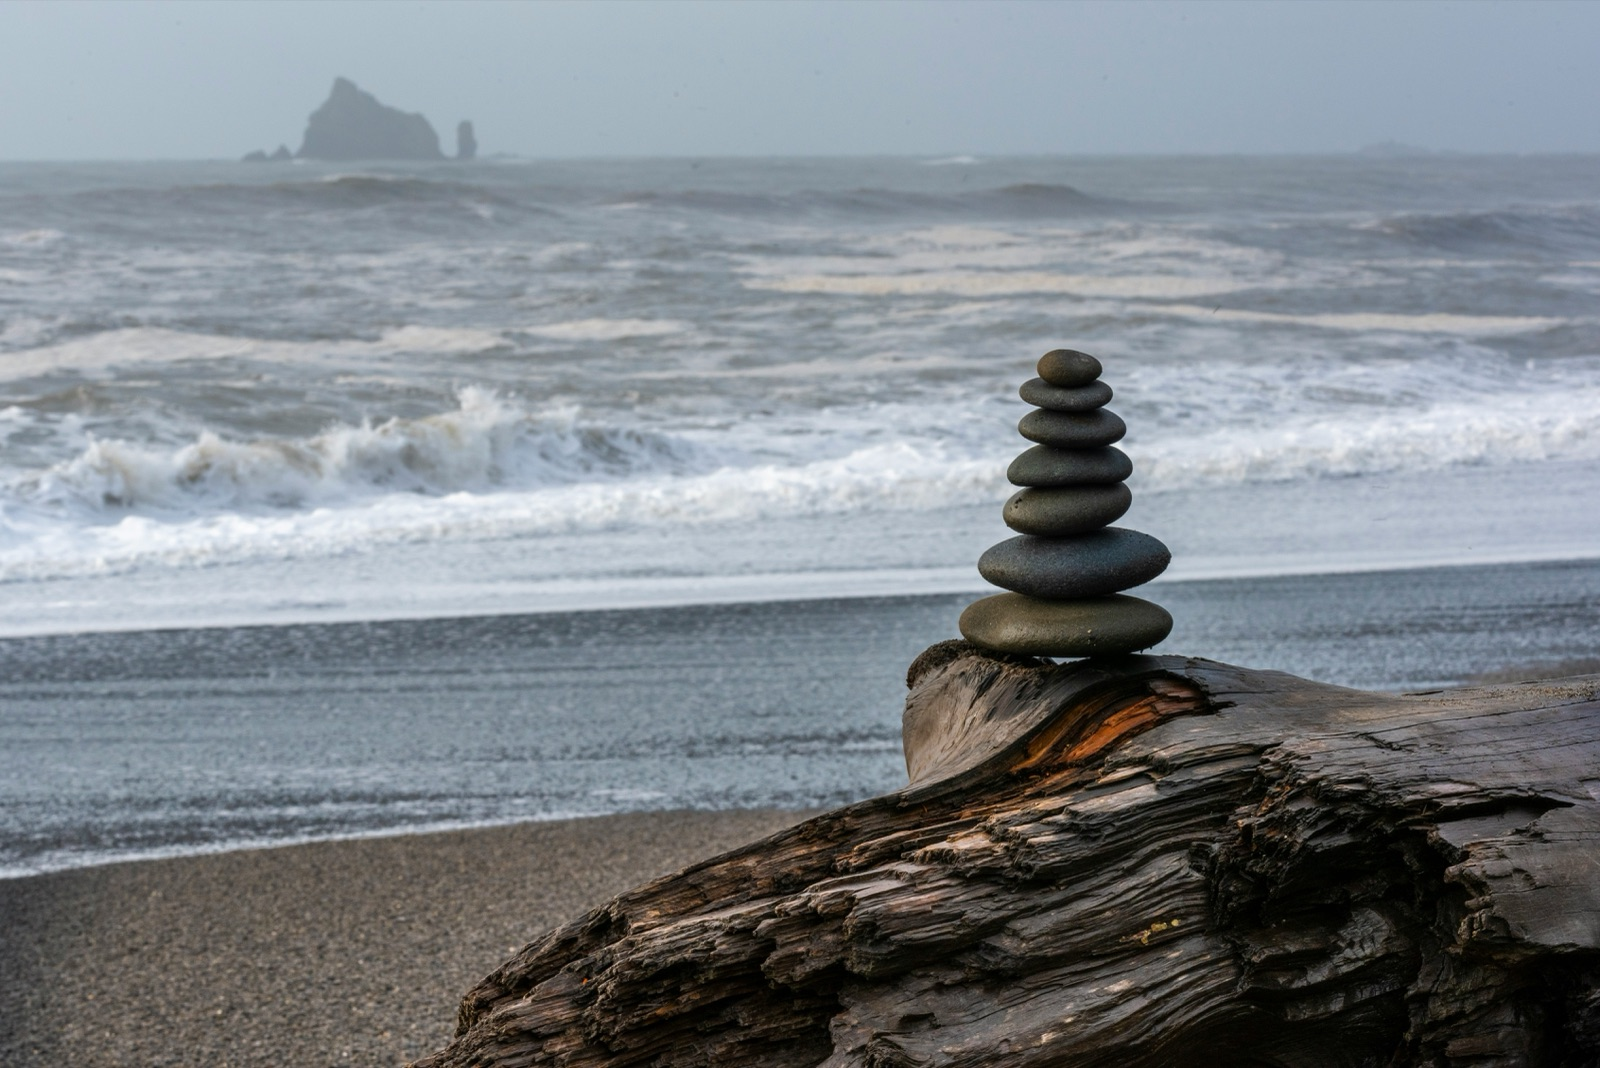
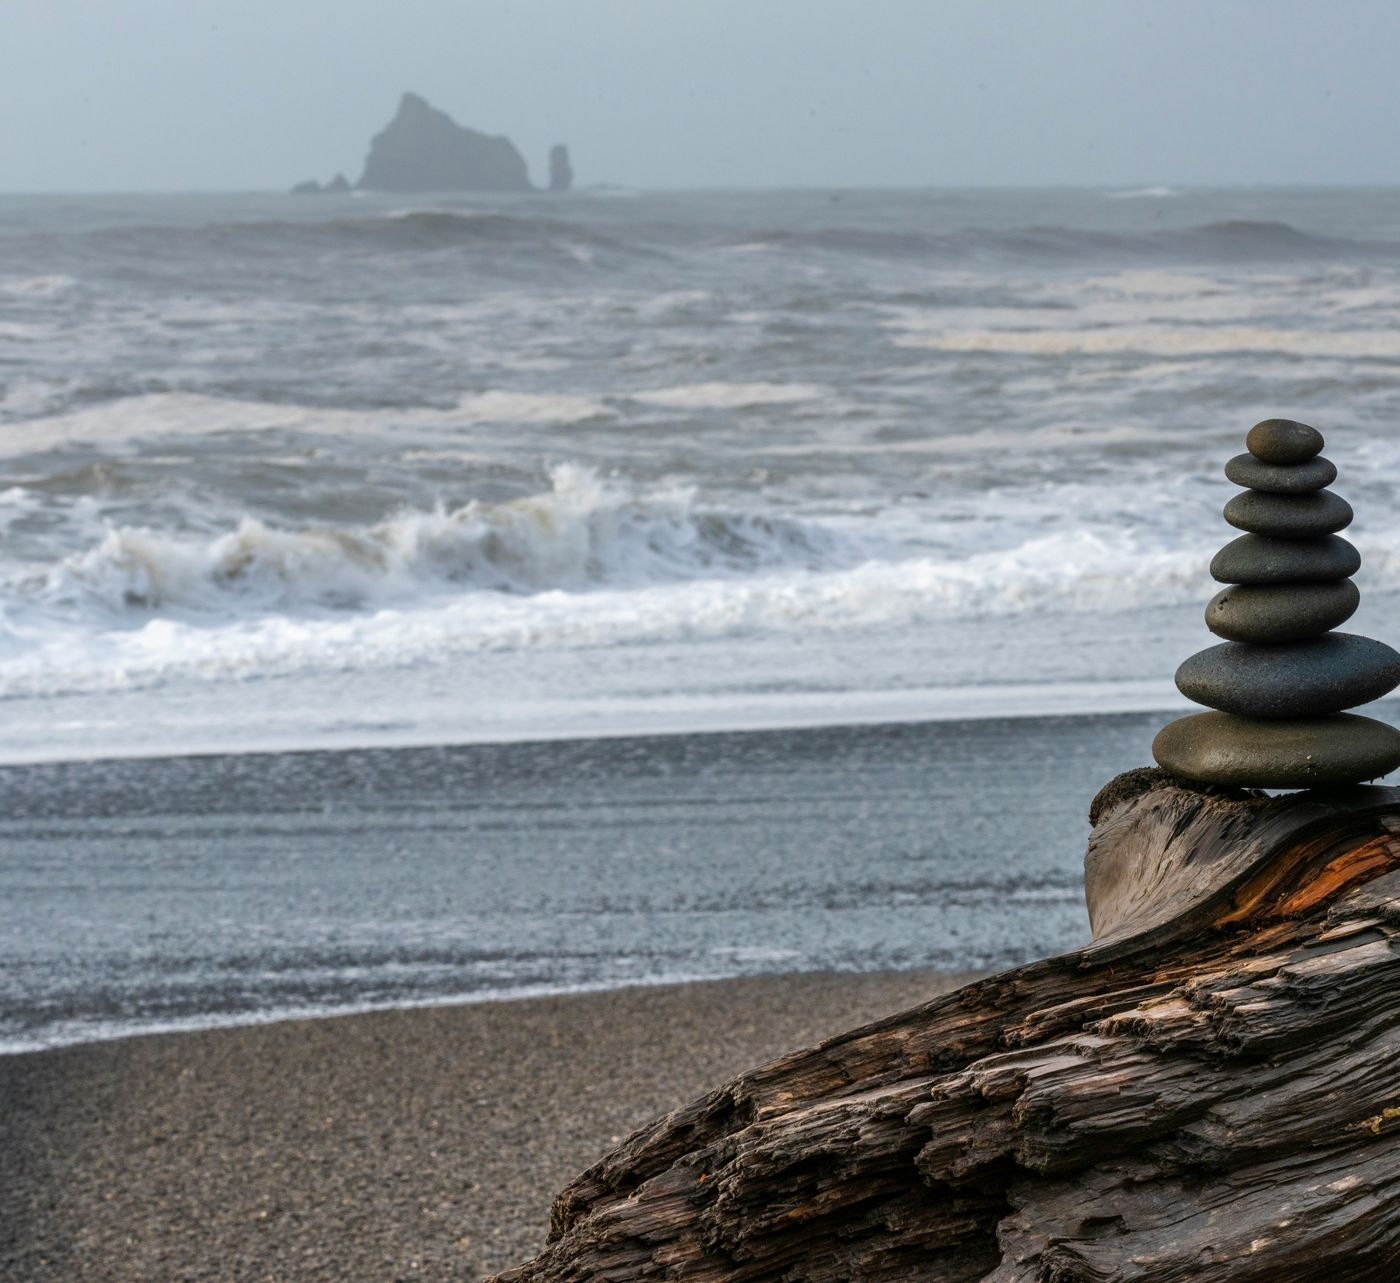
ux(custom-resume): cairn peeks right of column 3, OOB in forest green
- Re-cropped the jendi-coursey background so the cairn sits at ~92% of
  the image width. Switched backgroundSize from cover to '100% auto' so
  the image scales by viewport width, not by total page height (cover
  was over-scaling the image vertically and pushing the cairn off the
  right edge entirely on long-scrolling pages).
- Outside-the-Box tier now uses a forest green (#6BA66A) instead of
  sharing the gold palette with the top three — easier to tell tiers
  apart at a glance.

diff --git a/src/components/custom-resume/v2/customResumeV2Shared.tsx b/src/components/custom-resume/v2/customResumeV2Shared.tsx
@@ -19,8 +19,11 @@ export const APPROACH_VIS_URL = '/dashboard/sections/jendi-coursey-bg.jpg';
 const OVERLAY =
   'linear-gradient(180deg, rgba(33,63,79,0.55) 0%, rgba(18,46,59,0.78) 60%, rgba(18,46,59,0.92) 100%)';
 
-// Full-bleed background wrapper for the Custom Résumé pages. Same shape as
-// dashboardV2Shared.LakeBackground but uses approach_vis.jpg.
+// Full-bleed background wrapper for the Custom Résumé pages. The image is
+// cropped so the cairn sits at ~92% horizontally; with backgroundSize
+// '100% auto' the image fills the viewport width and the cairn lands just
+// past where column 3 of the picker ends. backgroundRepeat is none so the
+// bottom of taller pages just shows the canvas-deep gradient.
 export const ApproachBackground: React.FC<{ children: React.ReactNode }> = ({ children }) => (
   <div
     style={{
@@ -28,8 +31,9 @@ export const ApproachBackground: React.FC<{ children: React.ReactNode }> = ({ ch
       minHeight: '100vh',
       background: PALETTE.canvasDeep,
       backgroundImage: `${OVERLAY}, url(${APPROACH_VIS_URL})`,
-      backgroundSize: 'cover',
+      backgroundSize: '100% auto',
       backgroundPosition: 'center top',
+      backgroundRepeat: 'no-repeat',
       backgroundAttachment: 'scroll',
     }}
   >

diff --git a/src/components/custom-resume/v2/CustomResumeBuilder.tsx b/src/components/custom-resume/v2/CustomResumeBuilder.tsx
@@ -39,12 +39,16 @@ const CAREER_SECTION_TYPES = new Set([
 
 const MAX_SELECT = 3;
 
+// Forest green for "Outside the Box" — distinct from the top-three gold,
+// the runner-up teal, and the dream-job blue so each tier reads at a glance.
+const FOREST_GREEN = '#6BA66A';
+
 const TIER_FOR_TYPE: Record<string, { label: string; color: string; icon: 'num' | 'award' | 'lightbulb'; num?: number }> = {
   top_career_1: { label: 'Top Career #1', color: PALETTE.goldBright, icon: 'num', num: 1 },
   top_career_2: { label: 'Top Career #2', color: PALETTE.goldBright, icon: 'num', num: 2 },
   top_career_3: { label: 'Top Career #3', color: PALETTE.goldBright, icon: 'num', num: 3 },
   runner_ups: { label: 'Runner-up', color: PALETTE.tealBright, icon: 'award' },
-  outside_box: { label: 'Outside the Box', color: PALETTE.goldBright, icon: 'lightbulb' },
+  outside_box: { label: 'Outside the Box', color: FOREST_GREEN, icon: 'lightbulb' },
   dream_jobs: { label: 'Dream Job', color: PALETTE.blue, icon: 'lightbulb' },
 };
 